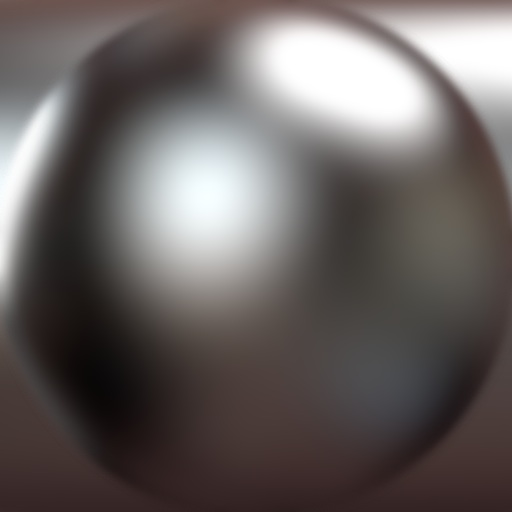
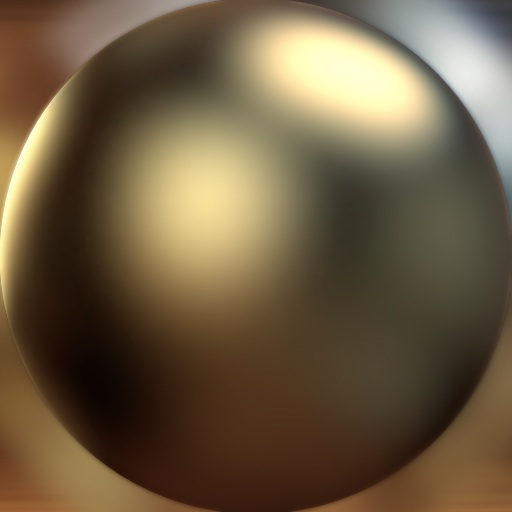
New matcap collection for default in release. It's now 24 images, ordered from regular diffuse to more shiny, stone, wax, eflective, glass and two non-realistic ones.
The menu now shows it in 3 rows. I made the previews a bit smaller, 96 pixels,
like the brushes for painting. 

Thanks everyone for submitting pics! I updated the credit file too, but name
from one person is missing still, will be added next.

diff --git a/source/blender/editors/interface/interface_icons.c b/source/blender/editors/interface/interface_icons.c
@@ -533,7 +533,7 @@ static void icon_verify_datatoc(IconImage *iimg)
 		                                    iimg->datatoc_size, IB_rect, NULL, "<matcap icon>");
 		/* w and h were set on initialize */
 		if (bbuf->x != iimg->h && bbuf->y != iimg->w)
-			IMB_scalefastImBuf(bbuf, iimg->w, iimg->h);
+			IMB_scaleImBuf(bbuf, iimg->w, iimg->h);
 		
 		iimg->rect = bbuf->rect;
 		bbuf->rect = NULL;
@@ -550,7 +550,7 @@ static void init_matcap_icons(void)
 		int size = datatoc_ ##name## _jpg_size;                               \
 		DrawInfo *di;                                                         \
 		                                                                      \
-		di = def_internal_icon(NULL, icon_id, 0, 0, 128, ICON_TYPE_BUFFER);   \
+		di = def_internal_icon(NULL, icon_id, 0, 0, 96, ICON_TYPE_BUFFER);   \
 		di->data.buffer.image->datatoc_rect = rect;                           \
 		di->data.buffer.image->datatoc_size = size;                           \
 	} (void)0
@@ -571,6 +571,14 @@ static void init_matcap_icons(void)
 	INIT_MATCAP_ICON(ICON_MATCAP_14, mc14);
 	INIT_MATCAP_ICON(ICON_MATCAP_15, mc15);
 	INIT_MATCAP_ICON(ICON_MATCAP_16, mc16);
+	INIT_MATCAP_ICON(ICON_MATCAP_17, mc17);
+	INIT_MATCAP_ICON(ICON_MATCAP_18, mc18);
+	INIT_MATCAP_ICON(ICON_MATCAP_19, mc19);
+	INIT_MATCAP_ICON(ICON_MATCAP_20, mc20);
+	INIT_MATCAP_ICON(ICON_MATCAP_21, mc21);
+	INIT_MATCAP_ICON(ICON_MATCAP_22, mc22);
+	INIT_MATCAP_ICON(ICON_MATCAP_23, mc23);
+	INIT_MATCAP_ICON(ICON_MATCAP_24, mc24);
 
 #undef INIT_MATCAP_ICON
 

diff --git a/source/blender/editors/include/ED_datafiles.h b/source/blender/editors/include/ED_datafiles.h
@@ -206,6 +206,30 @@ extern char datatoc_mc15_jpg[];
 extern int datatoc_mc16_jpg_size;
 extern char datatoc_mc16_jpg[];
 
+extern int datatoc_mc17_jpg_size;
+extern char datatoc_mc17_jpg[];
+
+extern int datatoc_mc18_jpg_size;
+extern char datatoc_mc18_jpg[];
+
+extern int datatoc_mc19_jpg_size;
+extern char datatoc_mc19_jpg[];
+
+extern int datatoc_mc20_jpg_size;
+extern char datatoc_mc20_jpg[];
+
+extern int datatoc_mc21_jpg_size;
+extern char datatoc_mc21_jpg[];
+
+extern int datatoc_mc22_jpg_size;
+extern char datatoc_mc22_jpg[];
+
+extern int datatoc_mc23_jpg_size;
+extern char datatoc_mc23_jpg[];
+
+extern int datatoc_mc24_jpg_size;
+extern char datatoc_mc24_jpg[];
+
 
 
 #endif /* __ED_DATAFILES_H__ */

diff --git a/source/blender/editors/interface/interface_templates.c b/source/blender/editors/interface/interface_templates.c
@@ -1585,11 +1585,12 @@ static uiBlock *icon_view_menu(bContext *C, ARegion *ar, void *arg_litem)
 	for (a = 0; item[a].identifier; a++) {
 		int x, y;
 		
-		x = (a % 8) * UI_UNIT_X * 6;
-		y = (a / 8) * UI_UNIT_X * 6;
+		/* XXX hardcoded size to 5 x unit */
+		x = (a % 8) * UI_UNIT_X * 5;
+		y = (a / 8) * UI_UNIT_X * 5;
 		
 		icon = item[a].icon;
-		but = uiDefIconButR_prop(block, ROW, 0, icon, x, y, UI_UNIT_X * 6, UI_UNIT_Y * 6, &cb.ptr, cb.prop, -1, 0, icon, -1, -1, NULL);
+		but = uiDefIconButR_prop(block, ROW, 0, icon, x, y, UI_UNIT_X * 5, UI_UNIT_Y * 5, &cb.ptr, cb.prop, -1, 0, icon, -1, -1, NULL);
 		uiButSetFlag(but, UI_HAS_ICON | UI_ICON_PREVIEW);
 	}
 

diff --git a/source/blender/makesrna/intern/rna_space.c b/source/blender/makesrna/intern/rna_space.c
@@ -1550,6 +1550,14 @@ static void rna_def_space_view3d(BlenderRNA *brna)
 		{ICON_MATCAP_14, "14", ICON_MATCAP_14, "", ""},
 		{ICON_MATCAP_15, "15", ICON_MATCAP_15, "", ""},
 		{ICON_MATCAP_16, "16", ICON_MATCAP_16, "", ""},
+		{ICON_MATCAP_17, "17", ICON_MATCAP_17, "", ""},
+		{ICON_MATCAP_18, "18", ICON_MATCAP_18, "", ""},
+		{ICON_MATCAP_19, "19", ICON_MATCAP_19, "", ""},
+		{ICON_MATCAP_20, "20", ICON_MATCAP_20, "", ""},
+		{ICON_MATCAP_21, "21", ICON_MATCAP_21, "", ""},
+		{ICON_MATCAP_22, "22", ICON_MATCAP_22, "", ""},
+		{ICON_MATCAP_23, "23", ICON_MATCAP_23, "", ""},
+		{ICON_MATCAP_24, "24", ICON_MATCAP_24, "", ""},
 		{0, NULL, 0, NULL, NULL}
 	};
 	

diff --git a/source/blender/editors/include/UI_icons.h b/source/blender/editors/include/UI_icons.h
@@ -1007,6 +1007,14 @@ DEF_ICON(MATCAP_13)
 DEF_ICON(MATCAP_14)
 DEF_ICON(MATCAP_15)
 DEF_ICON(MATCAP_16)
+DEF_ICON(MATCAP_17)
+DEF_ICON(MATCAP_18)
+DEF_ICON(MATCAP_19)
+DEF_ICON(MATCAP_20)
+DEF_ICON(MATCAP_21)
+DEF_ICON(MATCAP_22)
+DEF_ICON(MATCAP_23)
+DEF_ICON(MATCAP_24)
 
 /* vector icons, VICO_ prefix added */	
 DEF_VICO(VIEW3D_VEC)
